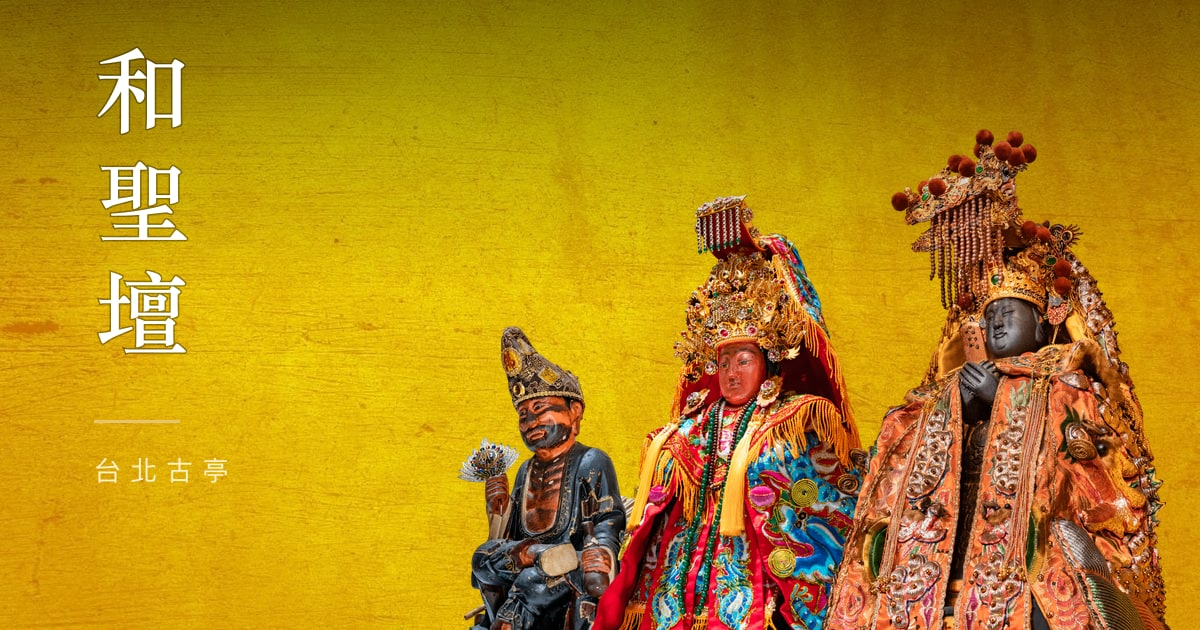
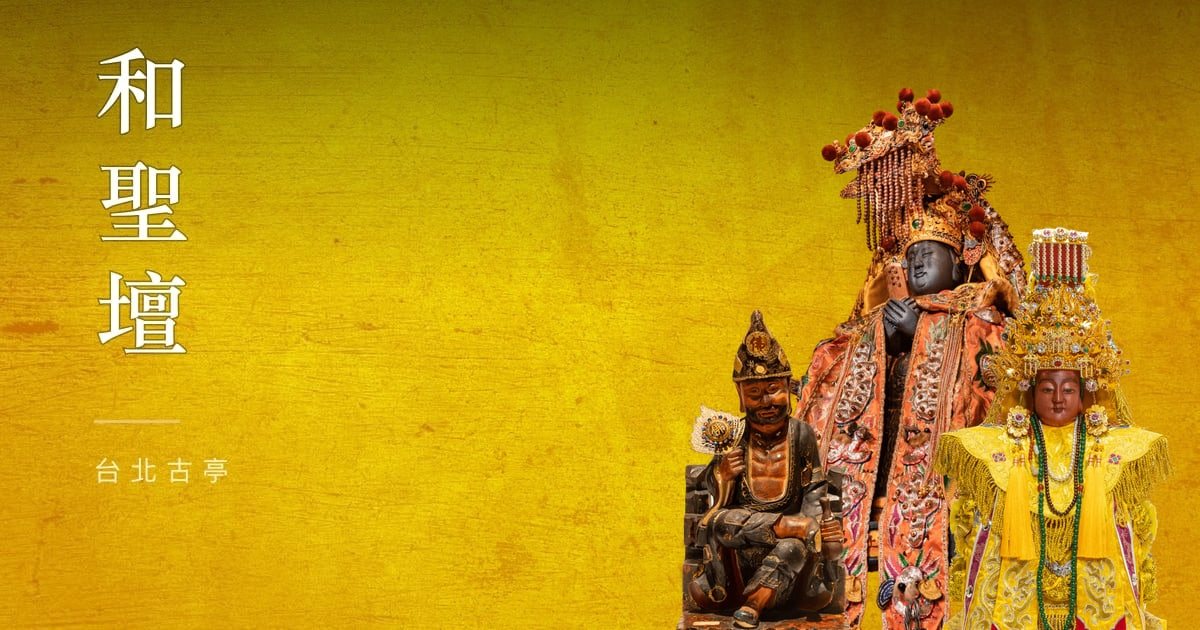
feat: 分享卡片圖改由腳本產生，版面跟上 Hero 的前後疊排法
og-hero.jpg 還停在很舊的版本（中間是紅袍那尊），而 Hero 的三尊排法在
2026-09-01～02 之間改了三次（並排 → 主神居中 → 前後疊）。註解要求「版面與
網站 Hero 一致」，但它一直是手工合成、沒有腳本，所以每改一次就落後一次。

新增 scripts/build-og-hero.js
  慣例與 build-og-scripture.js 相同：ESM ＋ createRequire 取 sharp，第一個參數
  是 sharp 的 node_modules，第二個參數可指到暫存目錄先驗收（不給就覆蓋 public/）。

  三尊的座標是量出來的不是排出來的：把視窗設成 1200×630（正好是 og:image 的
  尺寸）開正式站，抄三張 <img> 的 getBoundingClientRect()。卡片與首屏因此是
  同一個版面，不必自己換算比例。重量用的程式片段附在檔尾。

  背景不寫死：Hero 上方有暗化（實測頂端只保留原色 0.54、到 y=300 回到 1.0），
  腳本拿字標帶素材除以金底逐列反推，素材換了也不會失準。

新增 scripts/assets/og-hero-wordmark.jpg
  左側「和聖壇／台北古亭」字標帶（440×630），從最初那版 og-hero 取下。
  直接沿用而不重排文字：字型不同會產生差異，而這一區從頭到尾沒變過。

產出的新卡片
  三媽在最底只露出頭與冠帽、濟公在前左、二媽在前右——與正式站首屏對照過一致。
  202KB → 160KB。prerender.js 不覆寫首頁的 og:image，換這張即全站生效。

diff --git a/scripts/build-og-hero.js b/scripts/build-og-hero.js
@@ -1,0 +1,127 @@
+// 產生首頁的分享卡片圖（public/og-hero.jpg）。
+//
+// 用法（sharp 不是本專案的相依套件，裝在暫存資料夾跑就好，別寫進 package.json）：
+//   mkdir -p /tmp/cut && cd /tmp/cut && npm init -y && npm i sharp
+//   node scripts/build-og-hero.js /tmp/cut/node_modules [輸出目錄]
+// 第一個參數是 sharp 所在的 node_modules。本專案是 ESM（package.json 的
+// type: module），NODE_PATH 對 import 沒作用，所以用 createRequire——
+// 與 build-og-scripture.js、build-icons.js 同一個做法。
+// 第二個參數可指到暫存目錄先驗收，不給就直接覆蓋 public/。
+//
+// ── 為什麼要有這支 ──
+// og-hero.jpg 的版面必須與網站 Hero 一致，但 Hero 的三尊排法在 2026-09-01～02
+// 之間改了三次（並排 → 主神居中 → 前後疊），每次都要手工重合成一張。這支把
+// 那個手工流程固定下來：改完 Hero 跑一次就好。
+//
+// ── DEITIES 的座標怎麼來的 ──
+// **不是憑感覺排的，是量出來的**。把瀏覽器視窗設成 1200×630（正好是 og:image
+// 的尺寸），開 https://heshengtan.tw/，量三張 <img> 的 getBoundingClientRect()，
+// 直接抄進來。這樣卡片與網站首屏是同一個版面，不必自己換算比例。
+// Hero 改動後要重量一次——量測片段見本檔最下方註解。
+//
+// ── 背景為什麼不是單純的 hero-gold ──
+// 實測舊卡片上方被壓暗（頂端只保留原色的 0.54，到 y=300 回到 1.0 後持平），
+// 那是 Hero 為了讓導覽列看得清楚加的暗化。卡片沿用字標帶素材，若背景不套同一條
+// 漸層，接縫會出現明顯色差。這裡不寫死那條曲線，而是**從字標帶自己反推**：
+// 同一列上，字標帶的顏色除以金底的顏色就是保留比例。素材換了也不會失準。
+import { createRequire } from 'node:module';
+import { statSync } from 'node:fs';
+import path, { dirname, resolve } from 'node:path';
+import { fileURLToPath } from 'node:url';
+
+const require = createRequire(import.meta.url);
+const sharpPath = process.argv[2];
+if (!sharpPath) {
+  console.error('用法：node scripts/build-og-hero.js <sharp 的 node_modules 路徑> [輸出目錄]');
+  process.exit(1);
+}
+const sharp = require(path.join(resolve(sharpPath), 'sharp'));
+
+const ROOT = resolve(dirname(fileURLToPath(import.meta.url)), '..');
+const PUB = path.join(ROOT, 'public');
+const OUT = process.argv[3] ? resolve(process.argv[3]) : PUB;
+
+const W = 1200, H = 630;
+const STRIP = 440;            // 字標帶寬度；三尊都在這條線右邊，不會互相干擾
+const CLEAN = [300, 430];     // 字標帶裡沒有字的乾淨區間，用來反推暗化比例
+
+// 量自 https://heshengtan.tw/ 在 1200×630 下的實際渲染（2026-09-02）。
+// draw 是繪製順序＝z-index 由小到大：三媽在最底（廟方要「二媽與濟公站在她面前」，
+// 她只露出頭與冠帽），濟公次之，二媽在最前。
+const DEITIES = [
+  { file: 'hero-sanma',  left: 739, top:  88, w: 343, h: 617 },  // z-1 最底，主神
+  { file: 'hero-jigong', left: 675, top: 309, w: 177, h: 359 },  // z-2
+  { file: 'hero-erma',   left: 930, top: 227, w: 246, h: 479 },  // z-3 最前
+];
+
+const raw = (img) => img.raw().toBuffer({ resolveWithObject: true });
+
+(async () => {
+  const gold = await raw(sharp(path.join(PUB, 'hero-gold.jpg')).resize(W, H, { fit: 'cover' }));
+  const strip = await raw(sharp(path.join(ROOT, 'scripts/assets/og-hero-wordmark.jpg')));
+
+  // 逐列反推暗化比例（只看 R、G——B 在金色上數值極小，比值不穩）
+  const keep = [];
+  for (let y = 0; y < H; y++) {
+    let sum = 0, n = 0;
+    for (let x = CLEAN[0]; x <= CLEAN[1]; x++) {
+      const ig = (y * W + x) * gold.info.channels;
+      const is = (y * strip.info.width + x) * strip.info.channels;
+      for (const k of [0, 1]) {
+        if (gold.data[ig + k] > 12) { sum += strip.data[is + k] / gold.data[ig + k]; n++; }
+      }
+    }
+    keep.push(n ? sum / n : 1);
+  }
+
+  const bg = Buffer.alloc(W * H * 3);
+  for (let y = 0; y < H; y++) {
+    const r = keep[y];
+    for (let x = 0; x < W; x++) {
+      const i = (y * W + x) * gold.info.channels, o = (y * W + x) * 3;
+      for (const k of [0, 1, 2]) bg[o + k] = Math.min(255, Math.round(gold.data[i + k] * r));
+    }
+  }
+
+  const layers = [{
+    input: await sharp(path.join(ROOT, 'scripts/assets/og-hero-wordmark.jpg')).png().toBuffer(),
+    left: 0, top: 0,
+  }];
+  for (const d of DEITIES) {
+    // 超出畫布的部分要先裁掉——sharp 的 composite 不接受超界的圖層
+    const cutR = Math.max(0, d.left + d.w - W);
+    const cutB = Math.max(0, d.top + d.h - H);
+    let buf = await sharp(path.join(PUB, d.file + '.png')).resize(d.w, d.h).png().toBuffer();
+    if (cutR || cutB) {
+      buf = await sharp(buf).extract({ left: 0, top: 0, width: d.w - cutR, height: d.h - cutB }).png().toBuffer();
+    }
+    layers.push({ input: buf, left: d.left, top: Math.max(0, d.top) });
+  }
+
+  const dest = path.join(OUT, 'og-hero.jpg');
+  await sharp(bg, { raw: { width: W, height: H, channels: 3 } })
+    .composite(layers)
+    .jpeg({ quality: 86, mozjpeg: true })
+    .toFile(dest);
+
+  console.log(`og-hero.jpg  ${W}x${H}  ${(statSync(dest).size / 1024) | 0}KB  →  ${dest}`);
+  console.log(`  頂端保留 ${keep[0].toFixed(3)}、y=300 保留 ${keep[300].toFixed(3)}（由字標帶反推）`);
+  for (const d of DEITIES) console.log(`  ${d.file.padEnd(12)} x ${d.left}–${d.left + d.w}  y ${d.top}–${d.top + d.h}`);
+})();
+
+// ── Hero 改動後怎麼重量 DEITIES ──
+// 瀏覽器視窗設成 1200×630，開 https://heshengtan.tw/，執行：
+//
+//   [...document.querySelectorAll('img')]
+//     .filter(i => /hero-(jigong|sanma|erma)/.test(i.currentSrc))
+//     .map(i => { const r = i.getBoundingClientRect(); return {
+//       file: i.currentSrc.split('/').pop().split('?')[0].replace('.webp',''),
+//       left: Math.round(r.left), top: Math.round(r.top),
+//       w: Math.round(r.width), h: Math.round(r.height),
+//       z: +getComputedStyle(i.parentElement).zIndex }; })
+//     .sort((a, b) => a.z - b.z);
+//
+// 依 z 由小到大排好貼回 DEITIES 即可（陣列順序就是繪製順序）。
+// 量之前先強制重繪一次，否則可能量到還沒排版完的值：
+//   document.querySelectorAll('.hero-deity').forEach(p => {
+//     p.style.display='none'; void p.offsetHeight; p.style.display=''; });

diff --git a/CLAUDE.md b/CLAUDE.md
@@ -82,6 +82,7 @@ vercel --prod --yes  # 部署正式站（已連結專案 machu）
 - ~~會員生日的儲存格式是**農曆字串**~~（已統一為合併格式，保留此條說明歷史）（`民國72年農曆五月初十`，MemberPortal 產生），不是 solarOnly 的合併字串；`parseBirthDate` 只吃得下前者，測試時別用錯格式。
 - 後台匯出/篩選：`inDateRange()` 依報名日期（本地時區）篩選、`DateRangeFilter` 共用元件；匯出走 `filtered` 會跟著日期範圍。法會/志工兩分頁都有。
 - **Hero 香煙（`components/IncenseSmoke.tsx`）**：**畫一條會捲的曲線，不要用粒子**。第一版做粒子模擬，粒子一散開單顆濃度就掉到看不見，整體只剩一片霧——廟方要的是「細細長長的一縷白煙」，粒子做不出來。三個關鍵：(1) **螺旋要 x、y 同時繞**（`COIL`）——只讓 x 擺動、y 單調往上，畫出來是鋸齒像閃電；真實的煙是繞著上升軸的螺旋，側看會投影成一串壓扁的橢圓、甚至自我交疊，那才是麻花感。(2) **擾動隨高度才加進來**（`LAMINAR`/`TRANSITION`），下段直、上段捲，這是線香層流轉紊流的真實行為。(3) **柔邊靠疊四道**（`PASSES`）由寬而淡到窄而濃，只畫一道不是銳利得像鐵絲就是糊得像霧。形狀的相位隨時間往上跑、速度等於煙速（`RISE_SECONDS` 換算），煙的形狀是被氣流整段帶著走的。線很細所以要照實際像素畫，用一半解析度會糊掉。(4) **整條一次 `fill()`，不要分段 `stroke()`**——舊版把曲線切成 40 段各自描邊，`lineCap:'round'` 讓每段的圓頭與下一段重疊、螺旋自我交疊處又再疊一次，alpha 相加就是一串「反光顆粒」（離線量到沿線 35 個亮點，接近 240/6=40 個接縫）。改成沿中心線推出半個線寬、繞一圈成封閉多邊形整條填滿：沒有接縫，而且 nonzero 填充規則對自我交疊只填一次。濃度改用垂直線性漸層（`alphaAt` 只跟高度有關，剛好對得上）。改完亮點數降到 4、相鄰起伏降到 1/10；因為不再疊加，平均亮度掉 17%，`PASSES` 的 a 要乘 1.3 補回來。捲離 Hero 或切分頁會停掉 rAF；可見與否一律以 `getBoundingClientRect` 為準，不採信 IntersectionObserver 的 isIntersecting（誤報一次 false 就會永遠停住）。
+- **首頁分享圖 `public/og-hero.jpg` 由 `scripts/build-og-hero.js` 產生，Hero 一改就要重跑**（用法在檔頭，第二個參數可指到暫存目錄先驗收）。兩件事寫在腳本裡：(1) **三尊的座標是量出來的不是排出來的**——把視窗設成 1200×630（正好是 og:image 尺寸）開正式站，抄三張 `<img>` 的 `getBoundingClientRect()`，卡片與首屏因此是同一個版面，不必自己換算比例；重量的程式片段附在檔尾。(2) **背景不是單純的 hero-gold**——Hero 上方有暗化（頂端只保留 0.54，到 y=300 回到 1.0），腳本不寫死那條曲線，而是拿 `scripts/assets/og-hero-wordmark.jpg`（左側字標帶素材）除以金底反推，素材換了也不會失準。字標帶直接沿用素材，不重排文字，免得字型不同產生差異。
 - **`scripts/` 底下的腳本有兩種合法寫法，別混**（`package.json` 是 `type: module`）：
   **ESM（`.js`）** 要取 npm 套件必須用 `createRequire`——`NODE_PATH` 對 `import` 沒作用。`prerender.js`、`build-icons.js`、`build-og-scripture.js` 是這一類。
   **CommonJS 必須叫 `.cjs`**。副檔名寫 `.js` 會被當成 ESM，頂層的 `require` 直接 `ReferenceError: require is not defined`。`build-hero-assets.cjs`、`cutout-lib.cjs` 是這一類（2026-09-02 從 `.js` 改過來——在那之前它們**完全跑不起來**，檔頭寫的用法是失效的，而這件事光看程式碼看不出來，要真的執行才會發現）。
